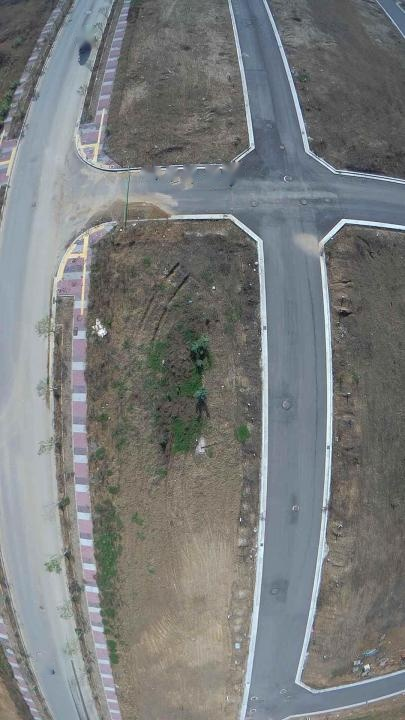
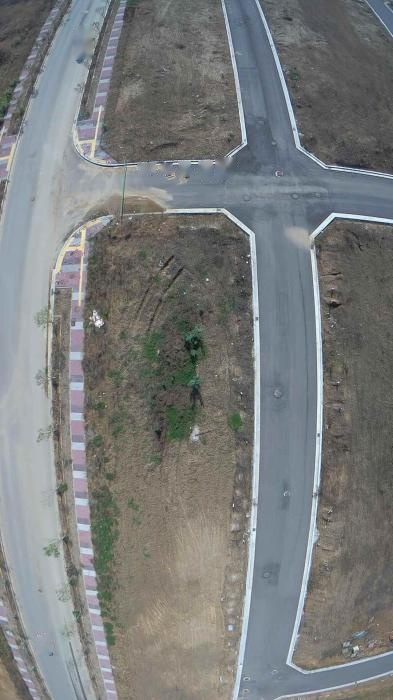
record complete

diff --git a/dron_project/uploads/views.py b/dron_project/uploads/views.py
@@ -85,8 +85,8 @@ class UploadFilesToS3(APIView):
             seconds = int((value - degrees - minutes / 60) * 3600 * 1000)
             return ((degrees, 1), (minutes, 1), (seconds, 1000)), ref
 
-        # Resize Image ( 메모리 초과로 리사이즈 필요 . 최대가 720 정도에 3장까지 )
-        def resize_image_opencv(image_file, max_width=720):
+        # Resize Image ( 메모리 초과로 리사이즈 필요 . 최대가 700 정도에 3~4장까지 )
+        def resize_image_opencv(image_file, max_width=700):
             """가로 세로 비율을 유지하면서 영상 크기를 최대 너비로 조정합니다."""
             # Pillow로 이미지 읽기 ( opencv 버전 충돌로 path 가 아닌 pillow 로 읽어야함 )
             img = Image.open(image_file)
